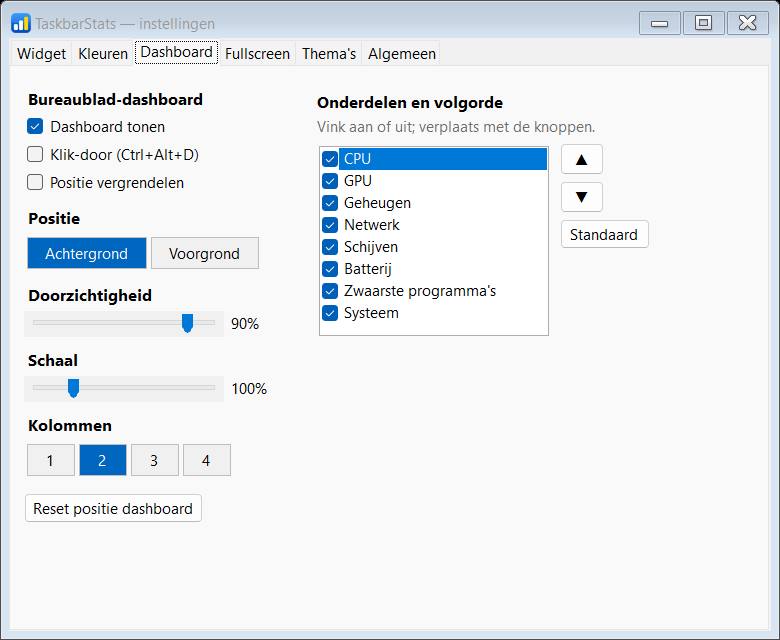
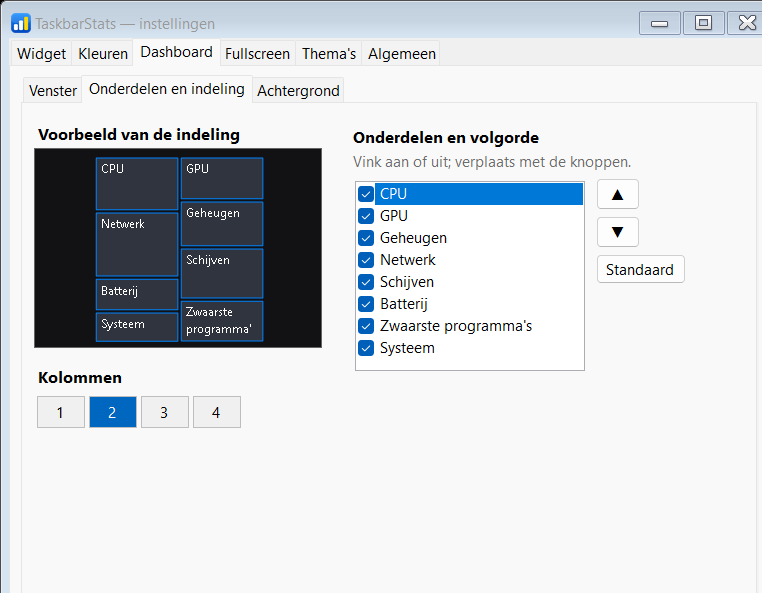
Menu: Dashboard/Fullscreen als submenu (openen, tour, instellingen), Verbruik bij de kopieeracties, Leesmij en credits wordt Credits; instellingen Dashboard en Fullscreen met dezelfde subtabs (Venster, Onderdelen en indeling met miniatuur, Achtergrond)

Changed region(s): [[0.0, 0.0, 1.0, 1.0], [0.7848, 0.425, 0.9055, 0.4857], [0.0302, 0.7892, 0.2717, 0.8196]]

diff --git a/src/SettingsForm.cs b/src/SettingsForm.cs
@@ -54,6 +54,9 @@ public sealed partial class SettingsForm : Form
 
     private string Snap() => JsonSerializer.Serialize(_c);
 
+    /// <summary>Kiest een hoofdtabblad (0 Widget, 1 Kleuren, 2 Dashboard, 3 Fullscreen, 4 Thema's, 5 Algemeen).</summary>
+    public void SelectTab(int index) => _tabs.SelectedIndex = Math.Clamp(index, 0, _tabs.TabPages.Count - 1);
+
     // ---------- opbouw ----------
     private void Build(int select)
     {
@@ -368,7 +371,7 @@ public sealed partial class SettingsForm : Form
         tab.Controls.Add(sub);
         var advMeasure = new List<Control>();   // rijen voor het subtabblad Geavanceerd
         var advGraph = new List<Control>();
-        WidgetComponentsPage(SubPage(sub, Loc.T("Components")));
+        WidgetComponentsPage(SubPage(sub, Loc.T("Components and layout")));
         WidgetSourcesPage(SubPage(sub, Loc.T("Sources")), advMeasure);
         WidgetStylePage(SubPage(sub, Loc.T("Display@@style")), advGraph);
         AddValueSettings(SubPage(sub, Loc.T("Values")));
@@ -572,7 +575,7 @@ public sealed partial class SettingsForm : Form
         return tab;
     }
 
-    // ---------- tabblad Dashboard ----------
+    // ---------- tabblad Dashboard en Fullscreen: dezelfde opbouw (Venster, Onderdelen en indeling, Achtergrond) ----------
     private TabPage DashTab()
     {
         Page(Loc.T("Dashboard"), out var tab);
@@ -589,33 +592,36 @@ public sealed partial class SettingsForm : Form
             (Loc.T("Background"), false),
             (Loc.T("In front"), true),
         }, () => _c.DashFront, v => _c.DashFront = v, 100));
+        p.Controls.Add(Head(Loc.T("Opacity@@window")));
+        p.Controls.Add(Slider(20, 100, 10, () => _c.DashOpacity, v => _c.DashOpacity = v, "%"));
+        p.Controls.Add(Head(Loc.T("Scale")));
+        p.Controls.Add(Slider(50, 300, 25, () => _c.DashScale, v => _c.DashScale = v, "%"));
         var reset = Btn(Loc.T("Reset dashboard position"), 170);
         reset.Margin = new Padding(0, 12, 0, 0);
         reset.Click += (_, _) => _h.ResetDash();
         p.Controls.Add(reset);
 
-        p = SubPage(sub, Loc.T("Appearance"));
-        p.Controls.Add(Head(Loc.T("Opacity@@window")));
-        p.Controls.Add(Slider(20, 100, 10, () => _c.DashOpacity, v => _c.DashOpacity = v, "%"));
-        p.Controls.Add(Head(Loc.T("Scale")));
-        p.Controls.Add(Slider(50, 300, 25, () => _c.DashScale, v => _c.DashScale = v, "%"));
-        p.Controls.Add(Head(Loc.T("Columns")));
-        p.Controls.Add(Seg(new (string, int)[] { ("1", 1), ("2", 2), ("3", 3), ("4", 4) }, () => _c.DashColumns, v => _c.DashColumns = v, 48));
-        BgSection(p, () => _c.DashBgImage, v => _c.DashBgImage = v, () => _c.DashBgMode, v => _c.DashBgMode = v, () => _c.DashBgOpacity, v => _c.DashBgOpacity = v);
+        p = SubPage(sub, Loc.T("Components and layout"));
+        var columns = new FlowLayoutPanel { AutoSize = true, FlowDirection = FlowDirection.TopDown, WrapContents = false, Margin = new Padding(0) };
+        columns.Controls.Add(Head(Loc.T("Columns")));
+        columns.Controls.Add(Seg(new (string, int)[] { ("1", 1), ("2", 2), ("3", 3), ("4", 4) }, () => _c.DashColumns, v => _c.DashColumns = v, 48));
+        p.Controls.Add(LayoutPage(LayoutPreview(() =>
+            {
+                var (size, tiles) = DashboardRenderer.PreviewLayout(_c);
+                return (size, tiles.Select(t => (new[] { t.id }, t.r)).ToList());
+            }), columns,
+            () => _c.DashOrder, v => _c.DashOrder = v, id => Tiles.DashOn(_c, id), (id, on) => Tiles.SetDashOn(_c, id, on)));
 
-        p = SubPage(sub, Loc.T("Components"));
-        p.Controls.Add(Head(Loc.T("Components and order")));
-        p.Controls.Add(Note(Loc.T("Tick to show or hide; move with the buttons."), 300));
-        p.Controls.Add(TileEditor(() => _c.DashOrder, v => _c.DashOrder = v, id => Tiles.DashOn(_c, id), (id, on) => Tiles.SetDashOn(_c, id, on)));
+        p = SubPage(sub, Loc.T("Background"));
+        BgSection(p, () => _c.DashBgImage, v => _c.DashBgImage = v, () => _c.DashBgMode, v => _c.DashBgMode = v, () => _c.DashBgOpacity, v => _c.DashBgOpacity = v);
         return tab;
     }
 
-    // ---------- tabblad Fullscreen ----------
     private TabPage FullTab()
     {
         Page(Loc.T("Fullscreen"), out var tab);
         var sub = Subs(tab, () => _fullSub, v => _fullSub = v);
-        var p = SubPage(sub, Loc.T("Screen and tour"));
+        var p = SubPage(sub, Loc.T("Window"));
 
         p.Controls.Add(Head(Loc.T("Fullscreen dashboard (Ctrl+Alt+F)")));
         p.Controls.Add(Note(Loc.T("Open the screen with Ctrl+Alt+F to see the effect; it adapts to the number of components."), 520));
@@ -634,46 +640,63 @@ public sealed partial class SettingsForm : Form
                            () => _c.TourSeconds, v => _c.TourSeconds = v, 44));
 
         p = SubPage(sub, Loc.T("Components and layout"));
-        var cols = new TableLayoutPanel { AutoSize = true, ColumnCount = 2, RowCount = 1 };
-        cols.ColumnStyles.Add(new ColumnStyle(SizeType.AutoSize));
-        cols.ColumnStyles.Add(new ColumnStyle(SizeType.AutoSize));
-        var left = new FlowLayoutPanel { AutoSize = true, FlowDirection = FlowDirection.TopDown, WrapContents = false, Margin = new Padding(0, 0, 24, 0) };
-        var right = new FlowLayoutPanel { AutoSize = true, FlowDirection = FlowDirection.TopDown, WrapContents = false };
+        p.Controls.Add(LayoutPage(LayoutPreview(() =>
+            {
+                var visible = Tiles.Order(_c.FullOrder).Where(id => Tiles.FullOn(_c, id));
+                return (new SizeF(1920, 1080), Tiles.FullCells(visible, 1920, 1080, 76, 16).Select(t => (t.Item1.ToArray(), t.Item2)).ToList());
+            }), null,
+            () => _c.FullOrder, v => _c.FullOrder = v, id => Tiles.FullOn(_c, id), (id, on) => Tiles.SetFullOn(_c, id, on)));
 
-        // Miniatuur van de indeling, zodat je de volgorde meteen ziet zonder het scherm te openen.
-        left.Controls.Add(Head(Loc.T("Layout preview")));
-        var prev = new DoubleBufferedPanel { Width = 288, Height = 162, Margin = new Padding(0, 0, 0, 4) };
+        p = SubPage(sub, Loc.T("Background"));
+        BgSection(p, () => _c.FullBgImage, v => _c.FullBgImage = v, () => _c.FullBgMode, v => _c.FullBgMode = v, () => _c.FullBgOpacity, v => _c.FullBgOpacity = v);
+        return tab;
+    }
+
+    /// <summary>Miniatuur van de indeling (dashboard of fullscreen), zodat je de volgorde meteen ziet zonder het venster te openen.</summary>
+    private Control LayoutPreview(Func<(SizeF size, List<(string[] ids, RectangleF r)> cells)> layout)
+    {
+        var prev = new DoubleBufferedPanel { Width = 288, Height = 200, Margin = new Padding(0, 0, 0, 8) };
         prev.Paint += (_, e) =>
         {
             var g = e.Graphics;
             g.SmoothingMode = System.Drawing.Drawing2D.SmoothingMode.AntiAlias;
             g.Clear(Color.FromArgb(18, 18, 20));
-            float k = prev.Width / 1920f;
-            var visible = Tiles.Order(_c.FullOrder).Where(id => Tiles.FullOn(_c, id));
-            foreach (var (ids, r) in Tiles.FullCells(visible, 1920, 1080, 76, 16))
+            var (size, cells) = layout();
+            float k = Math.Min((prev.Width - 8f) / size.Width, (prev.Height - 8f) / size.Height);
+            float ox = (prev.Width - size.Width * k) / 2, oy = (prev.Height - size.Height * k) / 2;
+            using var f = new Font("Segoe UI", 7.5f);
+            using var tb = new SolidBrush(Color.White);
+            using var fill = new SolidBrush(Color.FromArgb(48, 52, 62));
+            using var pen = new Pen(Color.FromArgb(0, 132, 255), 1);
+            foreach (var (ids, r) in cells)
             {
-                var rr = new RectangleF(r.X * k, r.Y * k, r.Width * k, r.Height * k);
-                using (var br = new SolidBrush(Color.FromArgb(48, 52, 62))) g.FillRectangle(br, rr);
-                using (var pen = new Pen(Color.FromArgb(0, 132, 255), 1)) g.DrawRectangle(pen, rr.X, rr.Y, rr.Width, rr.Height);
-                using var f = new Font("Segoe UI", 7.5f);
-                using var tb = new SolidBrush(Color.White);
+                var rr = new RectangleF(ox + r.X * k, oy + r.Y * k, r.Width * k, r.Height * k);
+                g.FillRectangle(fill, rr);
+                g.DrawRectangle(pen, rr.X, rr.Y, rr.Width, rr.Height);
                 g.DrawString(string.Join(" + ", ids.Select(Tiles.Name)), f, tb, new RectangleF(rr.X + 3, rr.Y + 2, rr.Width - 4, rr.Height - 4));
             }
         };
         Dep(prev.Invalidate);
-        left.Controls.Add(prev);
+        return prev;
+    }
 
+    /// <summary>Pagina "Onderdelen en indeling": links de miniatuur (plus eventueel extra instellingen), rechts aan/uit en volgorde van de onderdelen.</summary>
+    private Control LayoutPage(Control preview, Control? extra, Func<List<string>?> getOrder, Action<List<string>?> setOrder, Func<string, bool> on, Action<string, bool> setOn)
+    {
+        var cols = new TableLayoutPanel { AutoSize = true, ColumnCount = 2, RowCount = 1 };
+        cols.ColumnStyles.Add(new ColumnStyle(SizeType.AutoSize));
+        cols.ColumnStyles.Add(new ColumnStyle(SizeType.AutoSize));
+        var left = new FlowLayoutPanel { AutoSize = true, FlowDirection = FlowDirection.TopDown, WrapContents = false, Margin = new Padding(0, 0, 24, 0) };
+        var right = new FlowLayoutPanel { AutoSize = true, FlowDirection = FlowDirection.TopDown, WrapContents = false };
+        left.Controls.Add(Head(Loc.T("Layout preview")));
+        left.Controls.Add(preview);
+        if (extra is not null) left.Controls.Add(extra);
         right.Controls.Add(Head(Loc.T("Components and order")));
         right.Controls.Add(Note(Loc.T("Tick to show or hide; move with the buttons."), 300));
-        right.Controls.Add(TileEditor(() => _c.FullOrder, v => _c.FullOrder = v, id => Tiles.FullOn(_c, id), (id, on) => Tiles.SetFullOn(_c, id, on)));
-
+        right.Controls.Add(TileEditor(getOrder, setOrder, on, setOn));
         cols.Controls.Add(left, 0, 0);
         cols.Controls.Add(right, 1, 0);
-        p.Controls.Add(cols);
-
-        p = SubPage(sub, Loc.T("Background"));
-        BgSection(p, () => _c.FullBgImage, v => _c.FullBgImage = v, () => _c.FullBgMode, v => _c.FullBgMode = v, () => _c.FullBgOpacity, v => _c.FullBgOpacity = v);
-        return tab;
+        return cols;
     }
 
     /// <summary>Lijst met vinkjes (aan/uit) en knoppen omhoog/omlaag voor de volgorde van de hoofdonderdelen.</summary>

diff --git a/src/WidgetForm.cs b/src/WidgetForm.cs
@@ -581,11 +581,19 @@ public sealed partial class WidgetForm : Form
         _full.Activate();
     }
 
+    // Fullscreen: net als het bureaublad-dashboard een submenu (openen, instellingen, tour).
     private ToolStripMenuItem BuildFullMenu()
     {
-        var open = new ToolStripMenuItem(Loc.T("Fullscreen dashboard (Ctrl+Alt+F)")) { Tag = "close" };
+        var m = new ToolStripMenuItem(Loc.T("Fullscreen dashboard"));
+        var open = new ToolStripMenuItem(Loc.T("Open / close (Ctrl+Alt+F)")) { Tag = "close" };
         open.Click += (_, _) => ToggleFullscreen();
-        return open;
+        m.DropDownItems.Add(open);
+        m.DropDownItems.Add(BuildTourMenu());
+        m.DropDownItems.Add(new ToolStripSeparator());
+        var set = new ToolStripMenuItem(Loc.T("Settings…")) { Tag = "close" };
+        set.Click += (_, _) => ShowSettings(3);
+        m.DropDownItems.Add(set);
+        return m;
     }
 
     // Fullscreen-tour: hoe lang elke pagina blijft staan (start in het fullscreen-scherm zelf).
@@ -639,7 +647,7 @@ public sealed partial class WidgetForm : Form
     /// <summary>Tweede start van de app: laat zien dat hij draait door de instellingen te openen.</summary>
     private void OnShowRequested()
     {
-        try { if (IsHandleCreated && !IsDisposed) BeginInvoke(new Action(ShowSettings)); } catch (Exception dex) { Diag.Swallow(dex); }
+        try { if (IsHandleCreated && !IsDisposed) BeginInvoke(new Action(() => ShowSettings())); } catch (Exception dex) { Diag.Swallow(dex); }
     }
 
     protected override void OnHandleDestroyed(EventArgs e)
@@ -672,6 +680,10 @@ public sealed partial class WidgetForm : Form
                  v => { _cfg.DashClickThrough = v; Persist(); });
         AddCheck(m, Loc.T("Lock position"), _cfg.DashLocked,
                  v => { _cfg.DashLocked = v; Persist(); });
+        m.DropDownItems.Add(new ToolStripSeparator());
+        var set = new ToolStripMenuItem(Loc.T("Settings…")) { Tag = "close" };
+        set.Click += (_, _) => ShowSettings(2);
+        m.DropDownItems.Add(set);
         return m;
     }
 
@@ -708,10 +720,11 @@ public sealed partial class WidgetForm : Form
         _notifyHide.Start();
     }
 
-    private void ShowSettings()
+    // tab: 2 = Dashboard, 3 = Fullscreen (volgorde van de tabbladen in SettingsForm); -1 = het laatst gekozen tabblad
+    private void ShowSettings(int tab = -1)
     {
         if (_cfg.EndSeasonal()) ApplyAll();   // wie de instellingen opent, wil zijn eigen uiterlijk bewerken
-        if (_settings is { IsDisposed: false }) { _settings.WindowState = FormWindowState.Normal; _settings.Activate(); return; }
+        if (_settings is { IsDisposed: false }) { _settings.WindowState = FormWindowState.Normal; if (tab >= 0) _settings.SelectTab(tab); _settings.Activate(); return; }
         _settings = new SettingsForm(_cfg, new SettingsHost
         {
             Apply = ApplyAll,
@@ -721,6 +734,7 @@ public sealed partial class WidgetForm : Form
             Drives = () => _drives.ToList(),
         });
         _settings.FormClosed += (_, _) => _settings = null;
+        if (tab >= 0) _settings.SelectTab(tab);
         _settings.Show();
     }
 
@@ -1057,10 +1071,8 @@ public sealed partial class WidgetForm : Form
         menu.Items.Add(themes);
 
         menu.Items.Add(new ToolStripSeparator());
-        menu.Items.Add(BuildUsageMenu());
         menu.Items.Add(BuildDashMenu());
         menu.Items.Add(BuildFullMenu());
-        menu.Items.Add(BuildTourMenu());
 
         var stickItem = new ToolStripMenuItem(Loc.T("Stick to notification area")) { Tag = "close", Checked = _cfg.StickToTray };
         stickItem.Click += (_, _) => SetStickToTray(!_cfg.StickToTray);
@@ -1068,6 +1080,7 @@ public sealed partial class WidgetForm : Form
         AddClickThroughMenuItem(menu);
 
         menu.Items.Add(new ToolStripSeparator());
+        menu.Items.Add(BuildUsageMenu());
         var copy = new ToolStripMenuItem(Loc.T("Copy info to clipboard")) { Tag = "close" };
         copy.Click += (_, _) => CopyInfo();
         menu.Items.Add(copy);
@@ -1076,7 +1089,8 @@ public sealed partial class WidgetForm : Form
         copySys.Click += (_, _) => HardwareInfo.CopyToClipboard(_metrics, this, ok => _tip.Show(ok ? Loc.T("✔ Copied to clipboard") : Loc.T("System information is not available yet"), this, 0, -Height, 1500));
         menu.Items.Add(copySys);
 
-        var readme = new ToolStripMenuItem(Loc.T("Readme and credits")) { Tag = "close" };
+        menu.Items.Add(new ToolStripSeparator());
+        var readme = new ToolStripMenuItem(Loc.T("Credits")) { Tag = "close" };
         readme.Click += (_, _) =>
         {
             if (_credits is null || _credits.IsDisposed) _credits = new CreditsForm(_cfg, _usage, _metrics);

diff --git a/src/DashboardRenderer.cs b/src/DashboardRenderer.cs
@@ -85,6 +85,32 @@ internal sealed class DashboardRenderer : IDisposable
         return bmp;
     }
 
+    /// <summary>
+    /// Indeling voor de miniatuur in de instellingen: dezelfde masonry-plaatsing als <see cref="BuildPlan"/>, met gemiddelde tegelhoogtes
+    /// (één GPU, twee adapters, twee schijven) omdat er dan nog geen meting is. Geeft de logische grootte en per zichtbare tegel de plek.
+    /// </summary>
+    internal static (SizeF size, List<(string id, RectangleF r)> tiles) PreviewLayout(AppSettings cfg)
+    {
+        float Height(string id) => id switch
+        {
+            "cpu" => 190, "gpu" => 150, "mem" => 160, "net" => 34 + 66 + 3 * 17 + (cfg.MonthlyLimitGb > 0 ? 26 : 0) + 2 * 32 + 16,
+            "disk" => 34 + 2 * 34 + 22 + 56, "batt" => 112, "proc" => 34 + 5 * 18 + 22, _ => 104,
+        };
+        int cols = Math.Clamp(cfg.DashColumns, 1, 4);
+        var colY = Enumerable.Repeat((float)Pad, cols).ToArray();
+        var res = new List<(string, RectangleF)>();
+        foreach (var id in Tiles.Order(cfg.DashOrder))
+        {
+            if (!Tiles.DashOn(cfg, id)) continue;
+            int ci = Array.IndexOf(colY, colY.Min());
+            float h = Height(id);
+            res.Add((id, new RectangleF(Pad + ci * (CW + Spacing), colY[ci], CW, h)));
+            colY[ci] += h + Spacing;
+        }
+        float w = Pad * 2 + cols * CW + (cols - 1) * Spacing;
+        return (new SizeF(w, res.Count == 0 ? 80 : colY.Max() - Spacing + Pad), res);
+    }
+
     /// <summary>Bepaalt welke tegels er zijn, plaatst ze (masonry: elke tegel in de kortste kolom) en berekent de maat.</summary>
     private Plan BuildPlan(MetricsSnapshot m, List<DriveSpace> drives, int dpi)
     {

diff --git a/CLAUDE.md b/CLAUDE.md
@@ -66,7 +66,7 @@ zodat het rechtermuismenu soms niet verscheen.
 
 **Menu (ContextMenuStrip).** Volgorde in WinForms: `ItemClicked` → `Closing` → pas daarna de `Click`-handler. "Menu blijft
 open" wordt daarom in `OnDropDownItemClicked` bepaald (standaard open; items met `Tag = "close"` sluiten). Na een
-taalwissel wordt het menu opnieuw opgebouwd en heropend (`ReopenMenu`). Het menu is kort gehouden (Instellingen, Thema-snelkeuze, Verbruik, Dashboard, Fullscreen, Kopieer/Leesmij en credits/Over (met knop Welkomstscherm), Vastplakken aan systeemvak, Afsluiten): alles rond uiterlijk/indeling zit in het **instellingenvenster** (`SettingsForm`); nieuwe uiterlijk-instellingen daar toevoegen en (als ze in een thema horen) ook in `ThemeData.Capture/ApplyTo`. Het menu bouwt zich bij elke opening opnieuw op
+taalwissel wordt het menu opnieuw opgebouwd en heropend (`ReopenMenu`). Het menu is kort gehouden (Instellingen, Thema-snelkeuze, Dashboard (submenu), Fullscreen (submenu: openen, tour, instellingen), Vastplakken, dan Verbruik/Kopieer info/Systeeminformatie, Credits/Over (met knop Welkomstscherm), Vastplakken aan systeemvak, Afsluiten): alles rond uiterlijk/indeling zit in het **instellingenvenster** (`SettingsForm`); nieuwe uiterlijk-instellingen daar toevoegen en (als ze in een thema horen) ook in `ThemeData.Capture/ApplyTo`. Het menu bouwt zich bij elke opening opnieuw op
 (`RefreshMenu`); houd dat goedkoop. `Application.Exit()` niet gebruiken bij afsluiten (vensters sluiten zichzelf tijdens
 het sluiten -> "Collection was modified"); `Close()` op het widget.
 
@@ -107,6 +107,7 @@ Ctrl+Alt+F (fullscreen). Widget verbergt zichzelf bij fullscreen (instelling `Hi
 
 ## Ideeën / nog te doen
 
+- Dashboard- en Fullscreen-instellingen hebben dezelfde subtabs (Venster / Onderdelen en indeling met `LayoutPreview`+`LayoutPage` / Achtergrond); `DashboardRenderer.PreviewLayout` geeft de indeling voor de miniatuur; `ShowSettings(tab)` opent een tabblad (2 dashboard, 3 fullscreen). Nieuwe instellingen voor die vensters volgen dezelfde indeling.
 - Na 1.4.0: instellingen Widget hebben subtabs (`SettingsForm.Sub.cs`: Onderdelen/Bronnen/Weergave/Waarden/Uiterlijk/Geavanceerd; ook Dashboard/Fullscreen/Algemeen hebben subtabs via `Subs()`; instellingen van uitgezette onderdelen blijven bewerkbaar (niet uitschakelen); alleen echt overschreven opties (Compact->labels, Windows-thema->kleuren) worden grijs met `Why(() => reden)`-uitleg), grafieklengte (`GraphLength`), welkomstscherm uit het menu (knop in Over), en `StickToTray` (vervangt "Reset positie"; `WidgetForm.Stick.cs`, `FollowTray` in `Tick`, verslepen zet het uit, nieuwe installaties starten vastgeplakt). Testharnas: een timer die met `Application.DoEvents()` in een stap zit kan zichzelf re-entrant starten (stappen lopen dan door elkaar).
 - **Grafieklengte per onderdeel** (na 1.5.0): `AppSettings.GraphSizes` (sleutels `AppSettings.GraphKeys`: cpu, gpu, mem, cputemp, gputemp, net, ping; geen regel of `Len = null` = volgt de algemene `GraphLength`/`GraphWidthPx`), gelezen via `GraphWidthFor(key)` in `WidgetForm.GraphCell`; zit ook in `ThemeData`; UI: `SettingsForm.GraphSizeRow` (Geavanceerd).
 - **v1.4.0** (gebouwd door vijf parallelle agents in worktrees, daarna gemerged): waardeopmaak, extra items, grafiekstijl, achtergrondafbeelding, Windows-thema volgen, muisacties/klik-door, extra meldingen (incl. schijftemperatuur), updatecontrole. Testharnas-ankers: `ActionsOnShown();` (was `SyncDashboard();`) in de OnShown-hook van de patchscripts. Niet gebouwd (bewust): per-item kleur/label, tray-waarden, taakbalk-embedden, plugins, Lite/portable, kleinere installer.

diff --git a/README.md b/README.md
@@ -138,7 +138,7 @@ De installer:
 - registreert een uninstaller (ook in Instellingen → Apps) die de taak verwijdert en vraagt of
   je instellingen en verbruikslog (`%AppData%\TaskbarStats`) ook weg mogen.
 
-De app zelf heeft ook "Leesmij en credits" in het rechtermuisknop-menu: een rustig scrollende aftiteling met de credits, een paar cijfers uit je eigen verbruik (bijvoorbeeld hoeveel je hebt gedownload) en een grapje.
+De app zelf heeft ook "Credits" in het rechtermuisknop-menu: een rustig scrollende aftiteling met de credits, een paar cijfers uit je eigen verbruik (bijvoorbeeld hoeveel je hebt gedownload) en een grapje.
 
 ![Leesmij en credits](docs/screenshots/credits.png)
 
@@ -167,7 +167,7 @@ bij loslaten bewaard); in de instellingen (tab Algemeen) en in het menu staat "V
 - **Thema**: snelkeuze om met één klik een thema toe te passen.
 - **Verbruik**: ontvangen/verzonden per netwerkadapter (sessie, vandaag, gisteren, 7 dagen, maand) en het log per dag met CSV-export.
 - **Vastplakken aan systeemvak** (het widget blijft tegen het systeemvak staan en volgt het).
-- **Bureaublad-dashboard** (tonen, klik-door, vergrendelen) en **Fullscreen dashboard**, plus *Kopieer info*, *Leesmij en credits*, *Over* (met een knop voor het welkomstscherm) en **Afsluiten**.
+- **Bureaublad-dashboard** en **Fullscreen-dashboard**, elk een submenu (dashboard: tonen, klik-door, vergrendelen, instellingen; fullscreen: openen/sluiten, tour, instellingen), dan *Verbruik*, *Kopieer info*, *Systeeminformatie kopiëren*, *Credits*, *Over* (met een knop voor het welkomstscherm) en **Afsluiten**.
 - **Tooltip**: houd de muis minstens 2 s (instelbaar) boven het widget voor alle details (RAM in GB, per-GPU, netwerk per adapter, schijven en schijfruimte, temperaturen).
 - **Batterij** (laptops): staande batterij met niveau, kleur en bliksem/stekker; percentage in, naast of uit.
 
@@ -243,6 +243,8 @@ Instellingen → *Fullscreen*. Een klik of toets stopt de tour.
 GPU-temperatuur/-vermogen/-klok/-ventilator per kaart, schijftemperatuur en -gezondheid (SMART), hoofdbord en ventilatoren,
 geheugen en batterij. Voor CPU, hoofdbord en schijven zijn administrator-rechten nodig (de app vraagt die al); zonder
 die rechten toont het scherm de sensoren die wel beschikbaar zijn (GPU, geheugen, batterij) en een korte uitleg.
+
+**Dashboard en Fullscreen hebben dezelfde opbouw** met drie subtabs: *Venster*, *Onderdelen en indeling* (met een miniatuur van de indeling; het dashboard heeft daar ook het aantal kolommen) en *Achtergrond*. Het tabblad Widget noemt zijn eerste subtab ook *Onderdelen en indeling*.
 
 **Volgorde en onderdelen**: in het instellingenvenster (tab *Dashboard* of *Fullscreen*) zet je de hoofdonderdelen (CPU, GPU, geheugen, netwerk, schijven, batterij, zwaarste programma's, systeem) aan of uit en verplaats je ze met de pijlknoppen. Het bureaublad-dashboard vult zijn kolommen in die volgorde; het fullscreen-scherm vult rijen van vier kolommen (CPU is twee breed; batterij en systeem delen een cel) en past de breedte aan.
 
